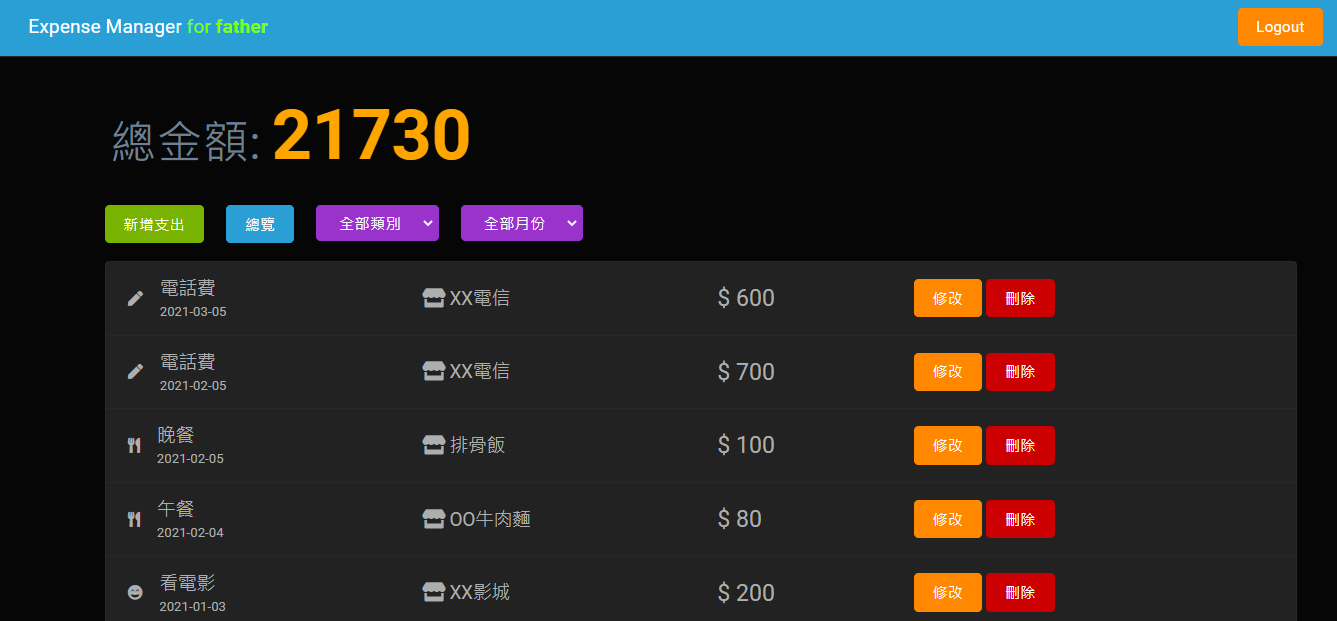
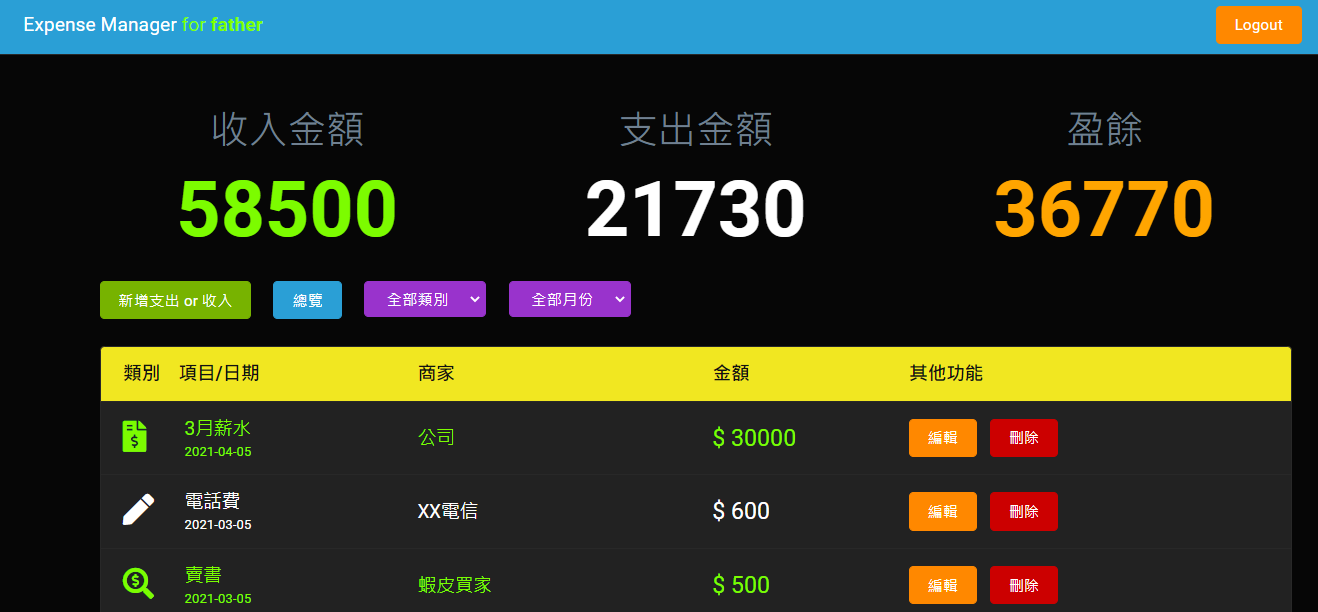
feat: modify readme

diff --git a/README.md b/README.md
@@ -13,13 +13,13 @@
 
 <登入後頁面>
 
-1. 首頁 -> 使用者可瀏覽所有支出清單、總支出金額
-2. 點擊 新增支出 按鈕 -> 使用者可創造一筆新的支出明細
-3. 點擊 總覽 按鈕 -> 使用者可重新瀏覽所有支出清單、總支出金額
-4. 點擊 全部類別 下拉選單 -> 使用者可以選擇不同的支出類別，並瀏覽該類別的支出清單
-5. 點擊 全部月份 下拉選單 -> 使用者可以選擇不同的月份，並瀏覽該月份的支出清單
-6. 點擊 修改 按鈕 -> 使用者可編輯單一支出清單的詳細資料
-7. 點擊 刪除 按鈕 -> 使用者可刪除單一支出清單
+1. 首頁 -> 使用者可瀏覽所有支出&收入清單、支出金額、收入金額、盈餘
+2. 點擊 新增支出or收入 按鈕 -> 使用者可創造一筆新的支出或是收入明細
+3. 點擊 總覽 按鈕 -> 使用者可重新瀏覽所有支出&收入清單、支出金額、收入金額、盈餘
+4. 點擊 全部類別 下拉選單 -> 使用者可以選擇不同的支出類別，並瀏覽該類別的支出&收入清單
+5. 點擊 全部月份 下拉選單 -> 使用者可以選擇不同的月份，並瀏覽該月份的支出&收入清單
+6. 點擊 修改 按鈕 -> 使用者可編輯單一支出&收入清單的詳細資料
+7. 點擊 刪除 按鈕 -> 使用者可刪除單一支出&收入清單的詳細資料
 8. 點擊 Expense Manager(首頁左上角) -> 任何情況下點擊均會回到首頁
 9. 點擊 Logout(首頁右上角) -> 任何情況下點擊均會登出，並回到 login 頁面
 
